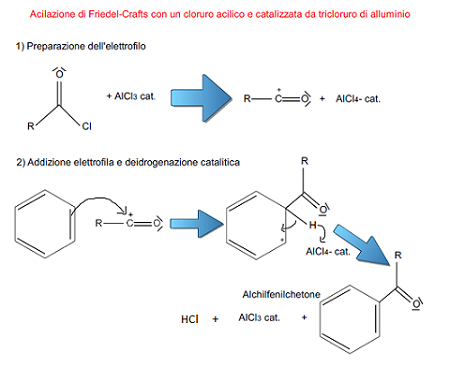
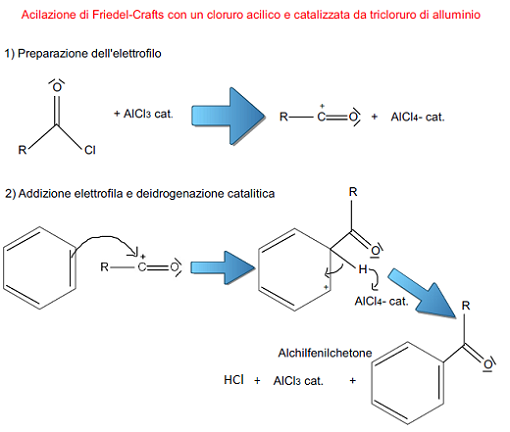
imgbio7 got larger

diff --git a/bio/index.html b/bio/index.html
@@ -209,9 +209,8 @@
             <section class="bio">
                 <h2>Insegnamento da remoto presso GoStudent</h2>
                 <figure>
-                    <img src="../assets/img/ImgBio7Large.webp" srcset="../assets/img/ImgBio7Large.webp 450w"
-                    sizes="(min-width:450px) 450px"
-                    alt="Una slide da me preparata sull'acilazione di Friedel-Crafts"/>
+                    <img src="../assets/img/ImgBio7Large.webp" srcset="../assets/img/ImgBio7Large.webp 510w"
+                    sizes="(min-width:510px) 510px" alt="Una slide da me preparata sull'acilazione di Friedel-Crafts"/>
                     <figcaption>Una slide da me preparata sull'acilazione di Friedel-Crafts.</figcaption>
                 </figure>
                 <div class="content">
